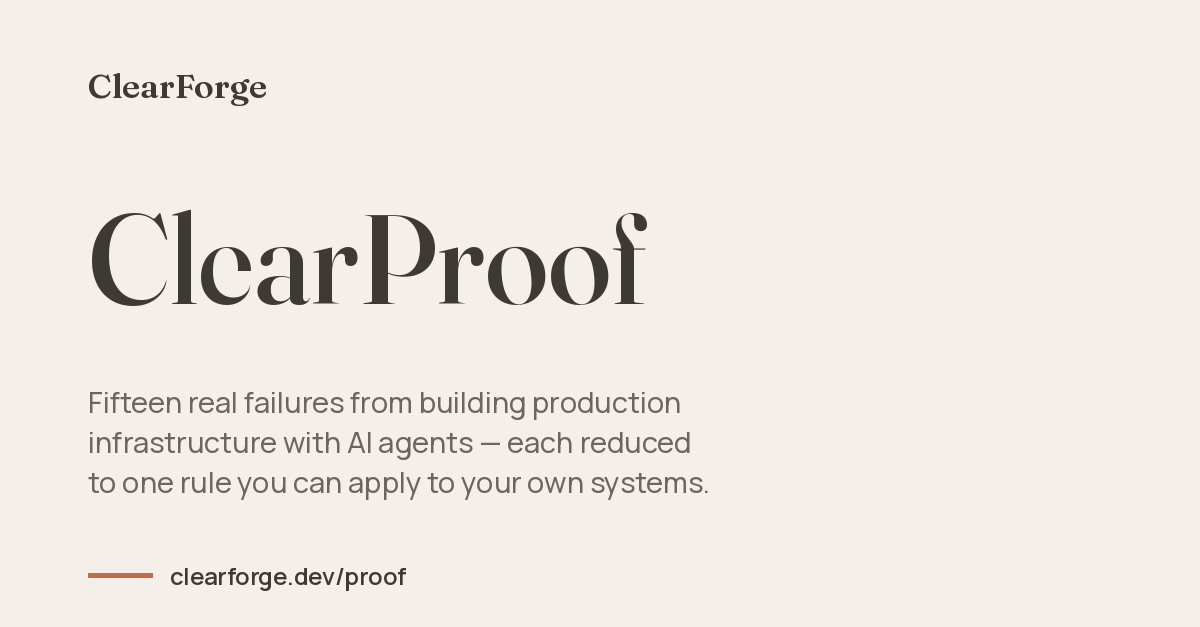
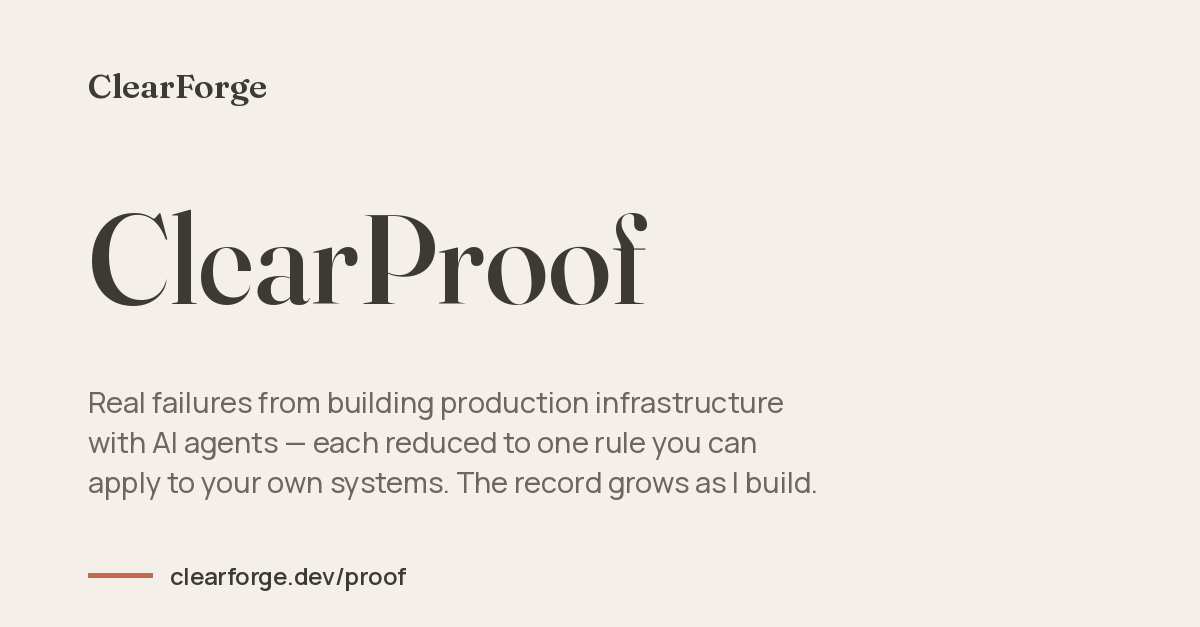
proof, method: drop the fixed note count
ClearProof grows as the work does, so any hard number goes stale. The
page heading, meta description, preview card and the method page's
reference to it now describe the record instead of counting it.

Changed region(s): [[0.0617, 0.6061, 0.6475, 0.6667], [0.0617, 0.7576, 0.6783, 0.7879], [0.0617, 0.697, 0.6475, 0.7273]]

diff --git a/proof/index.html b/proof/index.html
@@ -4,13 +4,13 @@
 <meta charset="UTF-8">
 <meta name="viewport" content="width=device-width, initial-scale=1.0">
 <title>ClearProof — Field notes from building with AI agents</title>
-<meta name="description" content="Fifteen real failures from building production infrastructure with AI agents — each reduced to one rule you can apply to your own systems.">
+<meta name="description" content="A growing record of real failures from building production infrastructure with AI agents — each reduced to one rule you can apply to your own systems.">
 <meta name="author" content="Scotty, ClearForge LLC">
 <link rel="canonical" href="https://clearforge.dev/proof/">
 <meta property="og:type" content="article">
 <meta property="og:site_name" content="ClearForge">
 <meta property="og:title" content="ClearProof">
-<meta property="og:description" content="Fifteen real failures from building production infrastructure with AI agents — each reduced to one rule you can apply to your own systems.">
+<meta property="og:description" content="A growing record of real failures from building production infrastructure with AI agents — each reduced to one rule you can apply to your own systems.">
 <meta property="og:url" content="https://clearforge.dev/proof/">
 <meta property="og:image" content="https://clearforge.dev/proof/og.png">
 <meta property="og:image:width" content="1200">
@@ -105,7 +105,7 @@ footer p+p{margin-top:.6rem}
 <p>That is not an argument against agents. It is an argument for one question, asked by a human, about every green result:</p>
 <blockquote><p>What would make this report success while being wrong?</p></blockquote>
 
-<h2>All fifteen rules</h2>
+<h2>The rules so far</h2>
 <h3>Systems <small>how programs, controls and checks fail</small></h3>
 <div class="table-wrap"><table>
 <thead><tr><th>Note</th><th>The rule</th></tr></thead>

diff --git a/method/index.html b/method/index.html
@@ -175,7 +175,7 @@ article>h2:first-child{margin-top:0!important}
 <ul>
 <li><strong><a href="https://github.com/ClearForge-LLC/ClearSeal-public" rel="noopener">ClearSeal</a></strong> — an integrity and authenticity standard for MCP servers and other LLM-access nodes. It was hardened by building against it: most of what is in its last three versions was found by a builder agent implementing the standard and fed back upstream — including one mechanism invented at the reference implementation that reached the standard a week late, which is now a rule in the standard itself.</li>
 <li><strong><a href="https://github.com/ClearForge-LLC/clearforge-praxis/tree/main/skills" rel="noopener">The two methodology skills</a></strong> — this method written as executable instructions for an agent. They are versioned and reviewed like code, because they are the thing that makes the method repeatable rather than something I have to remember.</li>
-<li><strong><a href="https://github.com/ClearForge-LLC/ClearProof" rel="noopener">ClearProof</a></strong> — the failure record. Fifteen incidents, each reduced to one rule. The failure that keeps recurring in the private record is one bug in different clothes: <em>a check that reported success while measuring the wrong thing.</em></li>
+<li><strong><a href="https://github.com/ClearForge-LLC/ClearProof" rel="noopener">ClearProof</a></strong> — the failure record. Real incidents, each reduced to one rule, added as the work turns up new ones. The failure that keeps recurring in the private record is one bug in different clothes: <em>a check that reported success while measuring the wrong thing.</em></li>
 </ul>
 
 <h2>What it doesn't do</h2>
